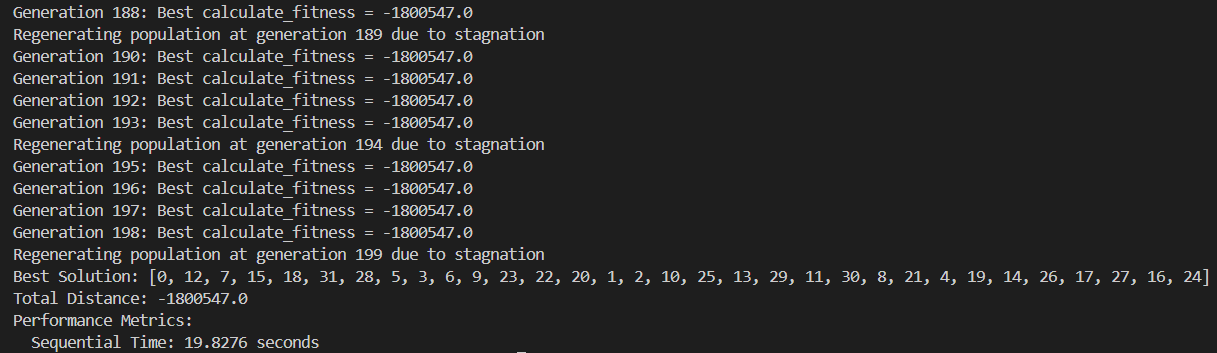
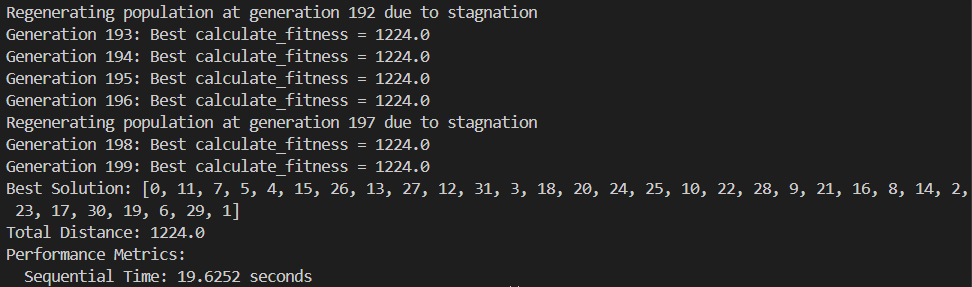
Updated readme file

Changed region(s): [[0.0, 0.0, 0.5556, 0.6132], [0.0, 0.6411, 1.0, 1.0]]

diff --git a/README.md b/README.md
@@ -17,7 +17,7 @@ Q. Explain the program outlined in the script genetic_algorithm_trial.py.
 1. A unique population of routes is generated using the generate_unique_population function.
 Each route starts and ends at the depot (node 0) and is a permutation of the remaining nodes.
 2. The fitness of each route is calculated using the calculate_fitness function. 
-- The fitness is the negative total distance of the route (since the goal is to minimize distance). 
+- The fitness is the total distance of the route (the goal is to minimize distance). 
 - A large negative penalty is returned if the route is infeasible (e.g., contains a distance of 10,000).
 3. The select_in_tournament function implements tournament selection. 
 - It randomly selects a subset of individuals from the population and chooses the one with the best fitness to be a parent for the next generation.
@@ -33,13 +33,16 @@ In each generation, it evaluates the population's fitness, performs selection, c
 
 Q. Run and time the execution of this script.
 - ![Sequential run of fleet management using GA](run_sequential.png)
-- The execution time for the sequential version of the algorithm (as shown in the output) is 19.8276 seconds. This time may vary depending on the hardware and the size of the distance matrix.
+- The execution time for the sequential version of the algorithm (as shown in the output) is 19.6252 seconds. This time may vary depending on the hardware and the size of the distance matrix.
 - Stagnation Handling:
     - The algorithm frequently regenerates the population due to stagnation, indicating that it struggles to find better solutions after a few generations. 
     - This suggests that the search space is complex, and the algorithm may benefit from additional optimization techniques.
 - Fitness Improvement:
-    - The best fitness improves over time, but the improvements are incremental. 
-    - The final best fitness is -1800547.0, which corresponds to a total distance of 1,800,547 units.
+    - The best fitness improves over time, but the improvements are incremental:
+        - Initially, the best fitness is 1395.0 (Generation 0).
+        - After the first regeneration at Generation 5, the best fitness improves to 1278.0 (Generation 6).
+        - Later, at Generation 92, the best fitness further improves to 1224.0, which remains the best solution until the end of the run.
+    - The final best fitness is 1224.0, which corresponds to a total distance of 1224 units.
 - Scalability:
     - The algorithm is computationally expensive due to the large population size (10,000) and the number of generations (200). 
     - Parallelization could significantly reduce the execution time.
